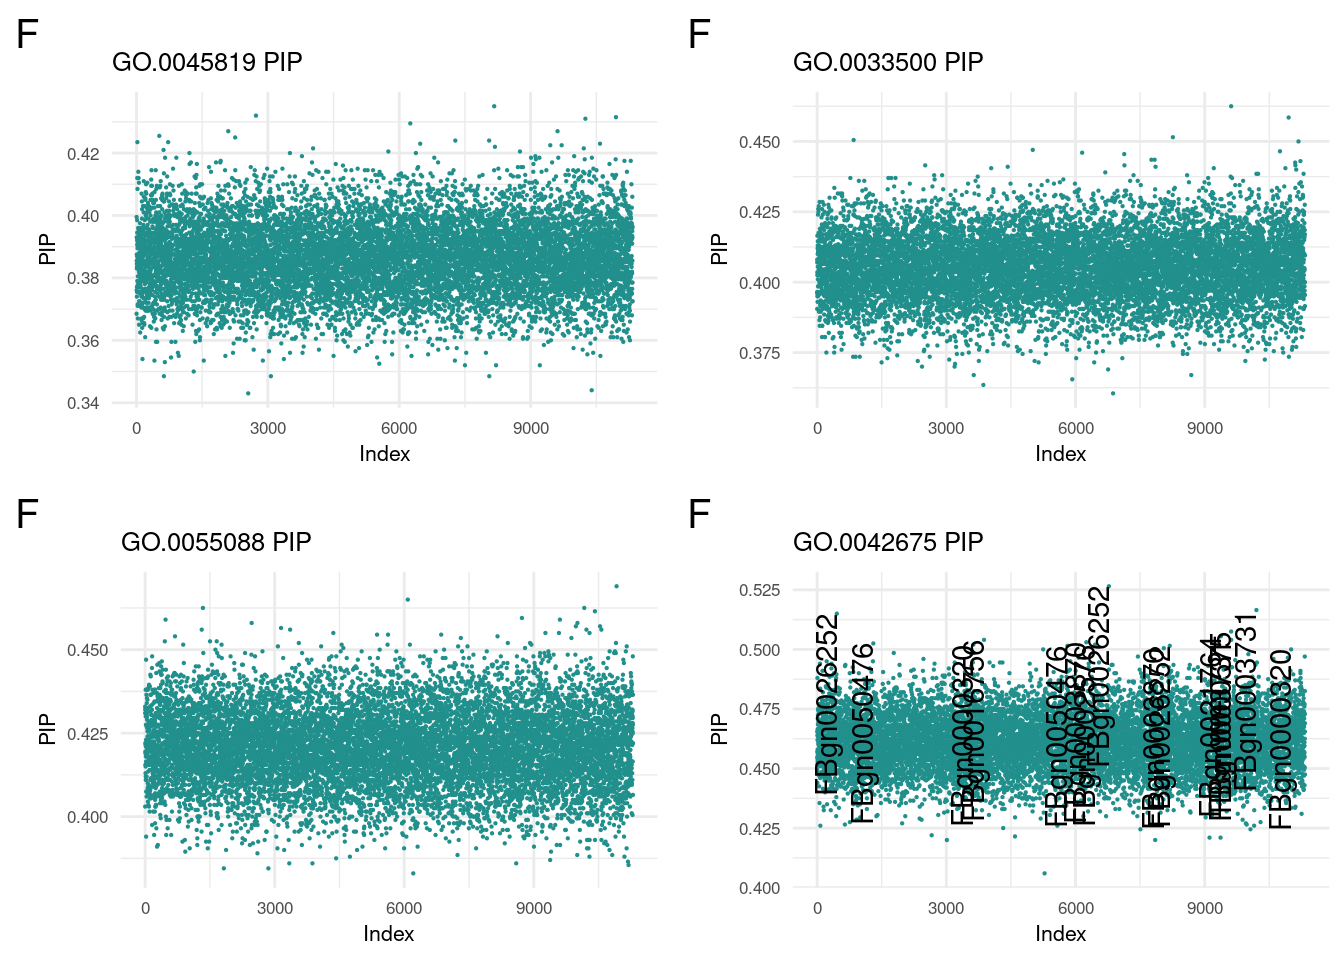
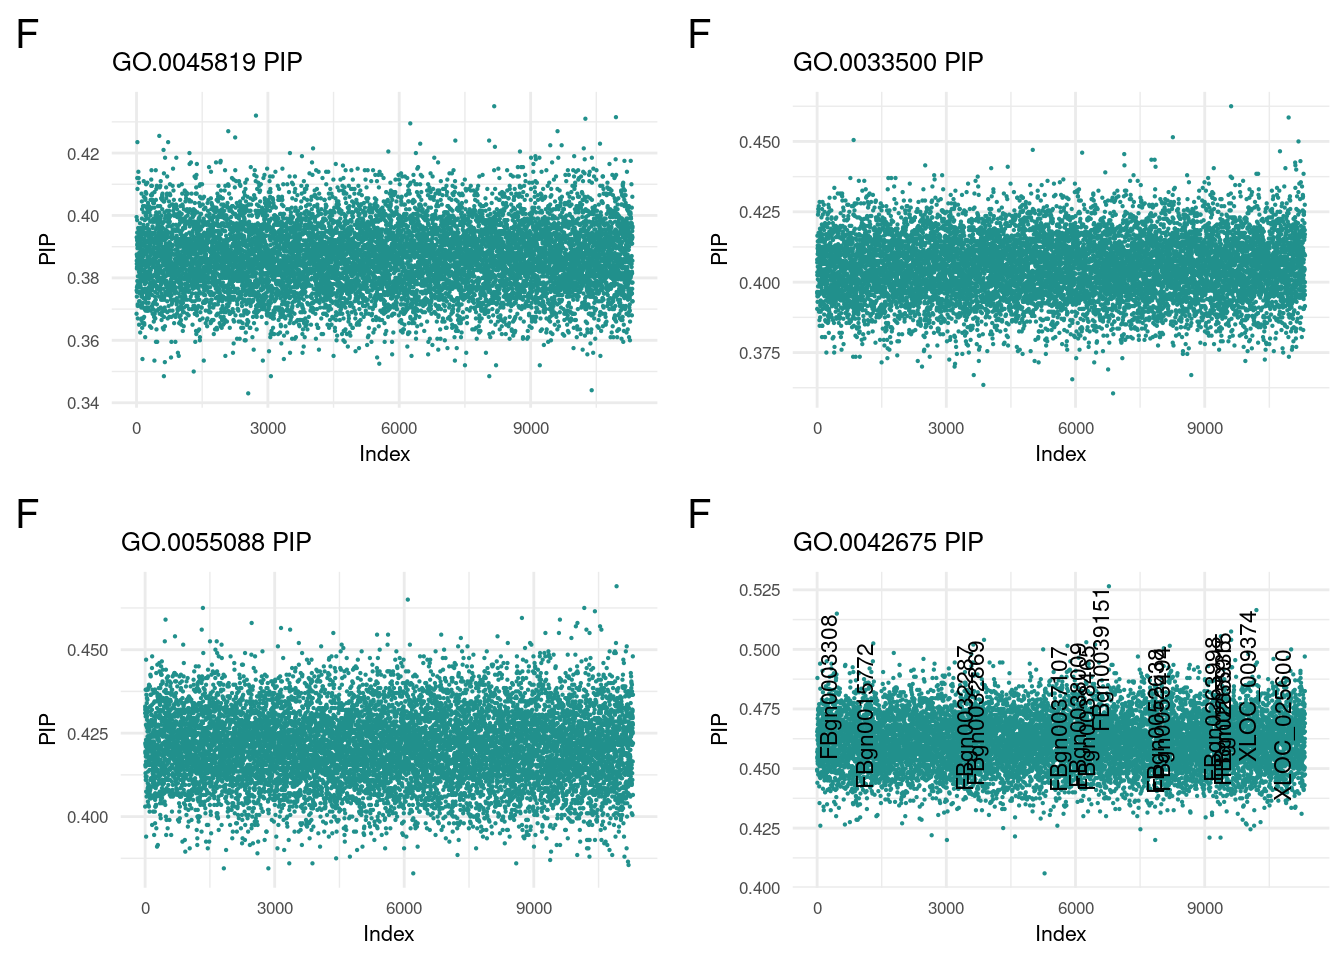
Build site.

Changed region(s): [[0.7812, 0.5938, 0.9688, 0.875], [0.5938, 0.625, 0.6562, 0.875], [0.6875, 0.6562, 0.75, 0.875]]

diff --git a/docs/goReport.html b/docs/goReport.html
@@ -485,16 +485,16 @@ This reproducible <a href="https://rmarkdown.rstudio.com">R Markdown</a> analysi
 <div class="panel panel-default">
 <div class="panel-heading">
 <p class="panel-title">
-<a data-toggle="collapse" data-parent="#workflowr-checks" href="#strongRepositoryversionstrongahrefhttpsgithubcomnklimkodgrpstarvetree979c389186168ca4c4b42a022d5dedb492c45d5atargetblank979c389a"> <span class="glyphicon glyphicon-ok text-success" aria-hidden="true"></span> <strong>Repository version:</strong> <a href="https://github.com/nklimko/dgrp-starve/tree/979c389186168ca4c4b42a022d5dedb492c45d5a" target="_blank">979c389</a> </a>
+<a data-toggle="collapse" data-parent="#workflowr-checks" href="#strongRepositoryversionstrongahrefhttpsgithubcomnklimkodgrpstarvetreed2b97de4b9c2cbea01d6ce72ac471495a6272642targetblankd2b97dea"> <span class="glyphicon glyphicon-ok text-success" aria-hidden="true"></span> <strong>Repository version:</strong> <a href="https://github.com/nklimko/dgrp-starve/tree/d2b97de4b9c2cbea01d6ce72ac471495a6272642" target="_blank">d2b97de</a> </a>
 </p>
 </div>
[2 lines of base64/hex data omitted]
 <div class="panel-body">
 <p>
 Great! You are using Git for version control. Tracking code development and connecting the code version to the results is critical for reproducibility.
 </p>
 <p>
-The results in this page were generated with repository version <a href="https://github.com/nklimko/dgrp-starve/tree/979c389186168ca4c4b42a022d5dedb492c45d5a" target="_blank">979c389</a>. See the <em>Past versions</em> tab to see a history of the changes made to the R Markdown and HTML files.
+The results in this page were generated with repository version <a href="https://github.com/nklimko/dgrp-starve/tree/d2b97de4b9c2cbea01d6ce72ac471495a6272642" target="_blank">d2b97de</a>. See the <em>Past versions</em> tab to see a history of the changes made to the R Markdown and HTML files.
 </p>
 <p>
 Note that you need to be careful to ensure that all relevant files for the analysis have been committed to Git prior to generating the results (you can use <code>wflow_publish</code> or <code>wflow_git_commit</code>). workflowr only checks the R Markdown file, but you know if there are other scripts or data files that it depends on. Below is the status of the Git repository when the results were generated:
@@ -608,6 +608,40 @@ Message
 </tr>
 </thead>
 <tbody>
+<tr>
+<td>
+Rmd
+</td>
+<td>
+<a href="https://github.com/nklimko/dgrp-starve/blob/d2b97de4b9c2cbea01d6ce72ac471495a6272642/analysis/goReport.Rmd" target="_blank">d2b97de</a>
+</td>
+<td>
+nklimko
+</td>
+<td>
+2023-11-28
+</td>
+<td>
+wflow_publish(“analysis/goReport.Rmd”)
+</td>
+</tr>
+<tr>
+<td>
+html
+</td>
+<td>
+<a href="https://rawcdn.githack.com/nklimko/dgrp-starve/2230527a27b6c3eb57d0fffa7b4b2ea8136f2669/docs/goReport.html" target="_blank">2230527</a>
+</td>
+<td>
+nklimko
+</td>
+<td>
+2023-11-28
+</td>
+<td>
+Build site.
+</td>
+</tr>
 <tr>
 <td>
 Rmd
@@ -847,14 +881,13 @@ corSummary &lt;- function(dataList, outPath){
 dMake &lt;- function(data, sex, custom.title, custom.Xlab, custom.Ylab, psize){
   plothole &lt;- ggplot(data, aes(x= index, y=cor, label=gene))+
     geom_point(color=viridis(1, begin=0.5), size=psize)+
-    geom_text(aes(label=ifelse(cor&gt;0.5, as.character(gene),&#39;&#39;)),hjust=1,vjust=0, angle=90, )+
+    geom_text(aes(label=ifelse(cor&gt;0.5, as.character(gene),&#39;&#39;)),hjust=1,vjust=0, angle=90, size=3)+
     theme_minimal() +
     labs(x=custom.Xlab,y=custom.Ylab, tag=sex, title=custom.title) +
     theme(text=element_text(size=8),
           plot.tag = element_text(size=15))
   return(plothole)
 }</code></pre>
-<p>This section of the project was to assess the</p>
 <p><a href="../goPlots.html">Initial results</a> showed that Gene Ontology association could be used to improve prediction accuracy of a Bayesian model by assigning genes of interest a separate portion of variance. The following results are from selecting GO terms with five or more associated genes and scoring their prediction accuracy as a mean of 25 replicates apiece.</p>
 <pre class="r"><code>allNames &lt;- read.table(file=&quot;snake/goPost/dataList&quot;, sep=&quot;&quot;)
 dataList &lt;- allNames[,1]
@@ -978,37 +1011,22 @@ m4 &lt;- termReader(&#39;GO.0005811&#39;, &#39;m&#39;)</code></pre>
   inlay &lt;- fit1$ETA[[1]]$d
   outlay &lt;- fit1$ETA[[2]]$d
   
-  fitDataM &lt;- data.table(index=c(1:length(outlay)), cor=outlay, gene=genes[id1])
+  fitDataM &lt;- data.table(index=c(1:length(outlay)), cor=outlay, gene=genes[-id1])
+  
+  
   plothole &lt;- dMake(fitDataM, toupper(sex), paste0(term, &quot; PIP&quot;), &#39;Index&#39;, &#39;PIP&#39;, 0.1)
   return(plothole)
 }
 
-nf1 &lt;- nonReader(&#39;GO.0045819&#39;, &#39;f&#39;)</code></pre>
-<pre><code>Warning in as.data.table.list(x, keep.rownames = keep.rownames, check.names =
-check.names, : Item 3 has 9 rows but longest item has 11329; recycled with
-remainder.</code></pre>
-<pre class="r"><code>nf2 &lt;- nonReader(&#39;GO.0033500&#39;, &#39;f&#39;)</code></pre>
-<pre><code>Warning in as.data.table.list(x, keep.rownames = keep.rownames, check.names =
-check.names, : Item 3 has 10 rows but longest item has 11328; recycled with
-remainder.</code></pre>
-<pre class="r"><code>nf3 &lt;- nonReader(&#39;GO.0055088&#39;, &#39;f&#39;)</code></pre>
-<pre><code>Warning in as.data.table.list(x, keep.rownames = keep.rownames, check.names =
-check.names, : Item 3 has 41 rows but longest item has 11297; recycled with
-remainder.</code></pre>
-<pre class="r"><code>nf4 &lt;- nonReader(&#39;GO.0042675&#39;, &#39;f&#39;)</code></pre>
-<pre><code>Warning in as.data.table.list(x, keep.rownames = keep.rownames, check.names =
-check.names, : Item 3 has 9 rows but longest item has 11329; recycled with
-remainder.</code></pre>
-<pre class="r"><code>nm1 &lt;- nonReader(&#39;GO.0035008&#39;, &#39;m&#39;)</code></pre>
-<pre><code>Warning in as.data.table.list(x, keep.rownames = keep.rownames, check.names =
-check.names, : Item 3 has 6 rows but longest item has 13569; recycled with
-remainder.</code></pre>
-<pre class="r"><code>nm2 &lt;- nonReader(&#39;GO.0140042&#39;, &#39;m&#39;)
+nf1 &lt;- nonReader(&#39;GO.0045819&#39;, &#39;f&#39;)
+nf2 &lt;- nonReader(&#39;GO.0033500&#39;, &#39;f&#39;)
+nf3 &lt;- nonReader(&#39;GO.0055088&#39;, &#39;f&#39;)
+nf4 &lt;- nonReader(&#39;GO.0042675&#39;, &#39;f&#39;)
+
+nm1 &lt;- nonReader(&#39;GO.0035008&#39;, &#39;m&#39;)
+nm2 &lt;- nonReader(&#39;GO.0140042&#39;, &#39;m&#39;)
 nm3 &lt;- nonReader(&#39;GO.0007485&#39;, &#39;m&#39;)
 nm4 &lt;- nonReader(&#39;GO.0005811&#39;, &#39;m&#39;)</code></pre>
-<pre><code>Warning in as.data.table.list(x, keep.rownames = keep.rownames, check.names =
-check.names, : Item 3 has 24 rows but longest item has 13551; recycled with
-remainder.</code></pre>
 <div id="female" class="section level3">
 <h3>Female</h3>
 </div>
@@ -1016,6 +1034,43 @@ remainder.</code></pre>
 <h1>Overall</h1>
 <pre class="r"><code>plot_grid(gg[[1]], ncol=1)</code></pre>
 <p><img src="figure/goReport.Rmd/f1-1.png" width="672" style="display: block; margin: auto;" /></p>
+<p>
+<button type="button" class="btn btn-default btn-xs btn-workflowr btn-workflowr-fig" data-toggle="collapse" data-target="#fig-f1-1">
+Past versions of f1-1.png
+</button>
+</p>
+<div id="fig-f1-1" class="collapse">
+<div class="table-responsive">
+<table class="table table-condensed table-hover">
+<thead>
+<tr>
+<th>
+Version
+</th>
+<th>
+Author
+</th>
+<th>
+Date
+</th>
+</tr>
+</thead>
+<tbody>
+<tr>
+<td>
+<a href="https://github.com/nklimko/dgrp-starve/blob/2230527a27b6c3eb57d0fffa7b4b2ea8136f2669/docs/figure/goReport.Rmd/f1-1.png" target="_blank">2230527</a>
+</td>
+<td>
+nklimko
+</td>
+<td>
+2023-11-28
+</td>
+</tr>
+</tbody>
+</table>
+</div>
+</div>
 </div>
 <div id="top-results" class="section level1">
 <h1>Top Results</h1>
@@ -1057,11 +1112,85 @@ remainder.</code></pre>
 <h1>Posterior Inclusion Probability of GO portion</h1>
 <pre class="r"><code>plot_grid(f1, f2, f3, f4, ncol=2)</code></pre>
 <p><img src="figure/goReport.Rmd/f3-1.png" width="672" style="display: block; margin: auto;" /></p>
+<p>
+<button type="button" class="btn btn-default btn-xs btn-workflowr btn-workflowr-fig" data-toggle="collapse" data-target="#fig-f3-1">
+Past versions of f3-1.png
+</button>
+</p>
+<div id="fig-f3-1" class="collapse">
+<div class="table-responsive">
+<table class="table table-condensed table-hover">
+<thead>
+<tr>
+<th>
+Version
+</th>
+<th>
+Author
+</th>
+<th>
+Date
+</th>
+</tr>
+</thead>
+<tbody>
+<tr>
+<td>
+<a href="https://github.com/nklimko/dgrp-starve/blob/2230527a27b6c3eb57d0fffa7b4b2ea8136f2669/docs/figure/goReport.Rmd/f3-1.png" target="_blank">2230527</a>
+</td>
+<td>
+nklimko
+</td>
+<td>
+2023-11-28
+</td>
+</tr>
+</tbody>
+</table>
+</div>
+</div>
 </div>
 <div id="posterior-inclusion-probability-of-non-go-portion" class="section level1">
 <h1>Posterior Inclusion Probability of non-GO portion</h1>
 <pre class="r"><code>plot_grid(nf1, nf2, nf3, nf4, ncol=2)</code></pre>
 <p><img src="figure/goReport.Rmd/f4-1.png" width="672" style="display: block; margin: auto;" /></p>
+<p>
+<button type="button" class="btn btn-default btn-xs btn-workflowr btn-workflowr-fig" data-toggle="collapse" data-target="#fig-f4-1">
+Past versions of f4-1.png
+</button>
+</p>
+<div id="fig-f4-1" class="collapse">
+<div class="table-responsive">
+<table class="table table-condensed table-hover">
+<thead>
+<tr>
+<th>
+Version
+</th>
+<th>
+Author
+</th>
+<th>
+Date
+</th>
+</tr>
+</thead>
+<tbody>
+<tr>
+<td>
+<a href="https://github.com/nklimko/dgrp-starve/blob/2230527a27b6c3eb57d0fffa7b4b2ea8136f2669/docs/figure/goReport.Rmd/f4-1.png" target="_blank">2230527</a>
+</td>
+<td>
+nklimko
+</td>
+<td>
+2023-11-28
+</td>
+</tr>
+</tbody>
+</table>
+</div>
+</div>
 <p>The low female outlier is <a href="https://amigo.geneontology.org/amigo/term/GO:0031048">GO:0031408</a> responsible for oxylipin synthesis.</p>
 <p>We then translated the top GO terms into human readable categories to assess our findings. Below are the top ten ordered by correlation:</p>
 <p>id: <a href="GO:0045819" class="uri">GO:0045819</a> name: positive regulation of glycogen catabolic process</p>
@@ -1082,6 +1211,43 @@ remainder.</code></pre>
 <h1>Overall</h1>
 <pre class="r"><code>plot_grid(gg[[2]], ncol=1)</code></pre>
 <p><img src="figure/goReport.Rmd/m1-1.png" width="672" style="display: block; margin: auto;" /></p>
+<p>
+<button type="button" class="btn btn-default btn-xs btn-workflowr btn-workflowr-fig" data-toggle="collapse" data-target="#fig-m1-1">
+Past versions of m1-1.png
+</button>
+</p>
+<div id="fig-m1-1" class="collapse">
+<div class="table-responsive">
+<table class="table table-condensed table-hover">
+<thead>
+<tr>
+<th>
+Version
+</th>
+<th>
+Author
+</th>
+<th>
+Date
+</th>
+</tr>
+</thead>
+<tbody>
+<tr>
+<td>
+<a href="https://github.com/nklimko/dgrp-starve/blob/2230527a27b6c3eb57d0fffa7b4b2ea8136f2669/docs/figure/goReport.Rmd/m1-1.png" target="_blank">2230527</a>
+</td>
+<td>
+nklimko
+</td>
+<td>
+2023-11-28
+</td>
+</tr>
+</tbody>
+</table>
+</div>
+</div>
 </div>
 <div id="top-results-1" class="section level1">
 <h1>Top Results</h1>
@@ -1114,11 +1280,85 @@ remainder.</code></pre>
 <h1>Posterior Inclusion Probability of GO portion</h1>
 <pre class="r"><code>plot_grid(m1, m2, m3, m4, ncol=2)</code></pre>
 <p><img src="figure/goReport.Rmd/m3-1.png" width="672" style="display: block; margin: auto;" /></p>
+<p>
+<button type="button" class="btn btn-default btn-xs btn-workflowr btn-workflowr-fig" data-toggle="collapse" data-target="#fig-m3-1">
+Past versions of m3-1.png
+</button>
+</p>
+<div id="fig-m3-1" class="collapse">
+<div class="table-responsive">
+<table class="table table-condensed table-hover">
+<thead>
+<tr>
+<th>
+Version
+</th>
+<th>
+Author
+</th>
+<th>
+Date
+</th>
+</tr>
+</thead>
+<tbody>
+<tr>
+<td>
+<a href="https://github.com/nklimko/dgrp-starve/blob/2230527a27b6c3eb57d0fffa7b4b2ea8136f2669/docs/figure/goReport.Rmd/m3-1.png" target="_blank">2230527</a>
+</td>
+<td>
+nklimko
+</td>
+<td>
+2023-11-28
+</td>
+</tr>
+</tbody>
+</table>
+</div>
+</div>
 </div>
 <div id="posterior-inclusion-probability-of-non-go-portion-1" class="section level1">
 <h1>Posterior Inclusion Probability of non-GO portion</h1>
 <pre class="r"><code>plot_grid(nm1, nm2, nm3, nm4, ncol=2)</code></pre>
 <p><img src="figure/goReport.Rmd/m4-1.png" width="672" style="display: block; margin: auto;" /></p>
+<p>
+<button type="button" class="btn btn-default btn-xs btn-workflowr btn-workflowr-fig" data-toggle="collapse" data-target="#fig-m4-1">
+Past versions of m4-1.png
+</button>
+</p>
+<div id="fig-m4-1" class="collapse">
+<div class="table-responsive">
+<table class="table table-condensed table-hover">
+<thead>
+<tr>
+<th>
+Version
+</th>
+<th>
+Author
+</th>
+<th>
+Date
+</th>
+</tr>
+</thead>
+<tbody>
+<tr>
+<td>
+<a href="https://github.com/nklimko/dgrp-starve/blob/2230527a27b6c3eb57d0fffa7b4b2ea8136f2669/docs/figure/goReport.Rmd/m4-1.png" target="_blank">2230527</a>
+</td>
+<td>
+nklimko
+</td>
+<td>
+2023-11-28
+</td>
+</tr>
+</tbody>
+</table>
+</div>
+</div>
 <p>No extreme outlier was found in males.</p>
 <p>We then translated the top GO terms into human readable categories to assess our findings. Below are the top ten ordered by correlation:</p>
 <p>id: <a href="GO:0035008" class="uri">GO:0035008</a> name: positive regulation of melanization defense response</p>
